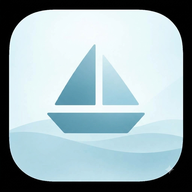
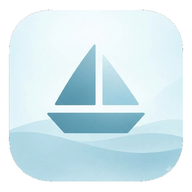
Add files via upload

Changed region(s): [[0.0, 0.0, 1.0, 1.0]]

diff --git a/index.html b/index.html
@@ -12,7 +12,7 @@
 <meta name="apple-mobile-web-app-capable" content="yes">
 <meta name="apple-mobile-web-app-status-bar-style" content="default">
 <meta name="theme-color" content="#e7f6f8">
-<link rel="apple-touch-icon" href="icon-192.png">
+<link rel="apple-touch-icon" sizes="180x180" href="icon-180.png">
 <link rel="manifest" href="manifest.json">
 <title>하루의 항해</title>
 <script>
@@ -391,6 +391,17 @@ body[data-theme=lemon] .card{
   background-repeat:no-repeat;
   background-position:0 0;
 }
+
+
+/* 월간 달력: 이동 버튼은 해당 월 제목 옆에, 고급 입력은 접어서 표시 */
+.mhbar{display:flex;align-items:center;justify-content:space-between;gap:10px;margin:8px 0 10px;flex-wrap:wrap}
+.mhbar .mh{font-weight:800;margin:0;font-size:16px}
+.mhnav{gap:5px;justify-content:flex-end}
+.mhnav .btn{padding:6px 10px;font-size:12px}
+.mhnav .btn:disabled{opacity:.35;cursor:not-allowed}
+.month-extra{margin-top:8px;border-top:1px solid var(--line);padding-top:8px}
+.month-extra summary{font-size:12px;color:var(--muted);padding:3px 0}
+.month-extra[open] summary{margin-bottom:8px}
 
 </style>
 </head>
@@ -1186,7 +1197,7 @@ function rowHTML(t,o){
   h+=`<span class="taskname ${t.done?'done':''}" data-act="open" data-id="${t.id}">${esc(t.name)}</span>`;
   if(isG&&ctx!=='daily')h+=`<span class="pill">${ks.filter(k=>k.done).length}/${ks.length}</span>`;
   if(tpl)h+=`<span class="pill">${repLabel(t.repeat)}</span>`;
-  if(ctx==='daily'){ if(t.rid)h+='<span class="pill">↻ 반복</span>'; }
+  if(ctx==='daily'){ if(t.parent&&T(t.parent))h+=`<span class="pill">↳ ${esc(T(t.parent).name)}</span>`; if(t.rid)h+='<span class="pill">↻ 반복</span>'; }
   if(ctx==='proj'&&!t.done){const up=t.days.filter(x=>x>=today()).sort()[0];if(up)h+=`<span class="pill">📌 ${dueLabel(up)}</span>`}
   if(t.due)h+=`<span class="pill ${t.done?'':dueCls(t.due)}">○ ${dueLabel(t.due)}</span>`;
   if(ctx==='daily')h+=`<button class="ic" title="시간 배정" data-act="sched" data-id="${t.id}">⏰</button><button class="ic" title="내일로 미루기" data-act="tmr" data-id="${t.id}">➜</button><button class="ic" title="다른 날로" data-act="pp" data-id="${t.id}">📅</button><button class="ic" title="이 날에서 빼기" data-act="unas" data-id="${t.id}">✕</button>`;
@@ -1358,7 +1369,8 @@ function evChipsHTML(d){
     return `<button class="evchip" data-act="evedit" data-id="${e.id}" style="background:${c};--ac:${deepOf(c)}" title="${esc(e.title)}"><span class="em" aria-hidden="true">${evEmoji(e)}</span><span class="et2">${esc(e.title)}</span>${multi?`<small>${dayDiff(e.date,d)+1}/${dayDiff(e.date,en)+1}일째</small>`:''}</button>`}).join('')}</div>`;
 }
 
-const shiftM=(ym,n)=>{const [y,m]=ym.split('-').map(Number);const d=new Date(y,m-1+n,1);return `${d.getFullYear()}-${pad(d.getMonth()+1)}`};
+const MIN_MONTH='2026-11';
+const shiftM=(ym,n)=>{const [y,m]=ym.split('-').map(Number);const d=new Date(y,m-1+n,1);const out=`${d.getFullYear()}-${pad(d.getMonth()+1)}`;return out<MIN_MONTH?MIN_MONTH:out};
 function evLanes(){
   const evs=S.events.filter(e=>!view.catHide[ecat(e)||'none']).map(e=>({...e,end:(e.end&&e.end>=e.date)?e.end:e.date})).sort((a,b)=>a.date<b.date?-1:a.date>b.date?1:(a.end>b.end?-1:1));
   const le=[];evs.forEach(e=>{let i=le.findIndex(x=>x<e.date);if(i<0){i=le.length;le.push('')}le[i]=e.end;e.lane=i});return evs;
@@ -1387,7 +1399,7 @@ const KR_HOLIDAYS_2026={
 function krHoliday(d){return KR_HOLIDAYS_2026[d]||KR_FIXED_HOLIDAYS[d.slice(5)]||''}
 function monthHTML(ym,evs){
   const [y,m]=ym.split('-').map(Number),first=new Date(y,m-1,1),last=new Date(y,m,0).getDate(),hu=((y*31+m*97)*53)%360;
-  let h=`<div class="mh">${y}년 ${m}월</div><div class="mg"><div class="wd wmh">주간 메모</div>${WD.map(w=>`<div class="wd">${w}</div>`).join('')}`;
+  let h=`<div class="mhbar"><div class="mh">${y}년 ${m}월</div>${ym===view.month?`<div class="row mhnav"><button class="btn" data-act="mprev" ${ym<=MIN_MONTH?'disabled title="2026년 11월부터 볼 수 있어요"':''}>◀</button><button class="btn" data-act="mtoday">이번 달</button><button class="btn" data-act="mnext">▶</button><button class="btn" data-act="mview">${view.mmode==='one'?'스크롤로 보기':'한 달씩 보기'}</button></div>`:''}</div><div class="mg"><div class="wd wmh">주간 메모</div>${WD.map(w=>`<div class="wd">${w}</div>`).join('')}`;
   const wm=k=>`<div class="wm"><textarea data-wk="${k}" placeholder="${mmdd(k)} 주 메모" aria-label="${mmdd(k)}부터 한 주 메모">\n${esc(weekMemo(k))}</textarea></div>`;
   h+=wm(weekKey(`${ym}-01`));
   for(let i=0;i<first.getDay();i++)h+='<div></div>';
@@ -1401,13 +1413,14 @@ function monthHTML(ym,evs){
   return h+'</div>';
 }
 function pageMonth(){
-  return `<div class="top"><div><div class="title">월간</div><div class="sub">날짜 색은 마감한 날의 달성률이에요</div></div>
-   <div class="row"><button class="btn" data-act="mprev">◀</button><button class="btn" data-act="mtoday">이번 달</button><button class="btn" data-act="mnext">▶</button><button class="btn" data-act="mview">${view.mmode==='one'?'스크롤로 보기':'한 달씩 보기'}</button></div></div>
+  return `<div class="top"><div><div class="title">월간</div><div class="sub">날짜 색은 마감한 날의 달성률이에요</div></div></div>
   <div class="card"><div class="row"><label class="small"><input type="checkbox" id="showT" ${view.showT?'checked':''} style="width:auto"> 일간 할 일도 표시</label><button class="btn ${catActive()?'primary':''}" id="catBtn" data-act="catf">🏷 분류별 보기${catActive()?' · 필터 중':''}</button></div>
    <div class="catpanel" id="catPanel" ${view.catOpen?'':'hidden'}>${catPanelHTML()}</div>
-   <div class="row" style="margin-top:8px"><input type="date" id="ev_d" value="${today()}" style="width:auto;flex:none"> ~ <input type="date" id="ev_e" style="width:auto;flex:none" title="끝나는 날 (하루짜리면 비워두기)"><input id="ev_t" data-enter="eva" placeholder="중요 일정 (예: 기말고사 기간)"><button class="btn primary" data-act="eva">⭐ 추가</button></div>
-   ${evPickersInline('ev')}
-   <div class="small muted" style="margin-top:6px">여러 날 일정은 시작일~끝나는 날만 넣으면 이어진 띠로 표시돼요. 일정 띠를 한 번 누르면 양끝에 손잡이가 나와요. 손잡이를 끌면 기간이 늘고 줄어요. 띠를 꾹 눌러(PC는 그냥) 끌면 기간 그대로 다른 날로 옮겨져요. 빈 날짜를 끌면(터치는 꾹 누른 채 끌면) 여러 날 일정이 만들어져요. 선택된 띠를 다시 누르면 수정 창이 열려요. 바꾼 뒤에는 '되돌리기'가 떠요.</div></div>
+   <details class="month-extra"><summary>＋ 일정 추가 및 달력 설정</summary>
+    <div class="row" style="margin-top:10px"><input type="date" id="ev_d" value="${today()}" style="width:auto;flex:none"> ~ <input type="date" id="ev_e" style="width:auto;flex:none" title="끝나는 날 (하루짜리면 비워두기)"><input id="ev_t" data-enter="eva" placeholder="중요 일정 (예: 기말고사 기간)"><button class="btn primary" data-act="eva">⭐ 추가</button></div>
+    ${evPickersInline('ev')}
+    <div class="small muted" style="margin-top:6px">여러 날 일정은 시작일~끝나는 날만 넣으면 이어진 띠로 표시돼요. 일정 띠를 한 번 누르면 양끝에 손잡이가 나와요. 손잡이를 끌면 기간이 늘고 줄어요. 띠를 꾹 눌러(PC는 그냥) 끌면 기간 그대로 다른 날로 옮겨져요. 빈 날짜를 끌면(터치는 꾹 누른 채 끌면) 여러 날 일정이 만들어져요. 선택된 띠를 다시 누르면 수정 창이 열려요. 바꾼 뒤에는 '되돌리기'가 떠요.</div>
+   </details></div>
   <div class="card" id="mcal">${calHTML()}</div>`;
 }
 

diff --git a/sw.js b/sw.js
@@ -1,5 +1,5 @@
-const CACHE = 'harbor-planner-v6-final-20261108';
-const CORE = ['./', './index.html', './manifest.json', './icon-192.png', './icon-512.png'];
+const CACHE = 'harbor-planner-v7-calendar-20261108';
+const CORE = ['./', './index.html', './manifest.json', './icon-180.png', './icon-192.png', './icon-512.png'];
 self.addEventListener('install', event => {
   event.waitUntil(caches.open(CACHE).then(cache => cache.addAll(CORE)).then(() => self.skipWaiting()));
 });
